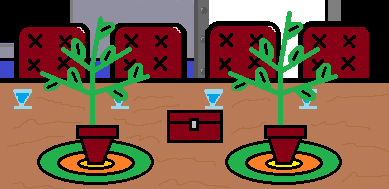
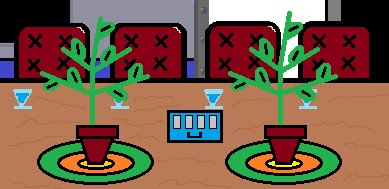
Updated lockbox asset

Changed region(s): [[0.4319, 0.582, 0.5861, 0.7407]]

diff --git a/Rooms/PinkLowerWing.py b/Rooms/PinkLowerWing.py
@@ -57,11 +57,8 @@ scaledDesk = pygame.transform.scale(Desk, (Desk.get_width(), Desk.get_height()/2
 scaledDesk2 = pygame.transform.scale(Desk2, (Desk2.get_width(), Desk2.get_height()/2))
 deskRange = pygame.Rect(100, 66, scaledDesk.get_width(), scaledDesk.get_height())
 Table = pygame.image.load("Assets/lowerWingTable.png")
-Table2 = pygame.image.load("Assets/lowerWingTable2.png")
 scaledTable = pygame.transform.scale(Table, (Table.get_width()*1.5, Table.get_height()/1.2))
-scaledTable2 = pygame.transform.scale(Table2, (Table2.get_width()*1.5, Table2.get_height()/1.2))
 tableRect = pygame.Rect(212,138,430,30)
-tableRect2 = pygame.Rect(292,110,350,45)
 tableRange = pygame.Rect(292,160,350,16)
 scaledTooDarkSee = pygame.transform.scale(Assets.tooDarkSee, (Assets.tooDarkSee.get_width()*1.5, Assets.tooDarkSee.get_height()/1.2))
 tooDarkSee = Objects.briefText(virtual_screen, scaledTooDarkSee, 170, 160, 3)
@@ -118,7 +115,7 @@ def inBounds(x, y):
         return False
     if deskRect.collidepoint((x,y)):
         return False
-    if tableRect.collidepoint((x,y)) or tableRect2.collidepoint((x,y)):
+    if tableRect.collidepoint((x,y)):
         return False
     return True
 
@@ -144,8 +141,6 @@ def Room(screen, screen_res, events):
     bookcaseRange = pygame.Rect(792,140,104,56)
 
     _, _, blueFound = Objects.getColorsFound()
-
-    spotdiffssolved = Objects.getSpotDiffsSolved()
 
     for event in events:
         if event.type == pygame.KEYDOWN:
@@ -234,10 +229,7 @@ def Room(screen, screen_res, events):
     virtual_screen.blit(scaledLockedDoor, (23, 65, scaledLockedDoor.get_width(),scaledLockedDoor.get_height()))
 
     if(player_pos.y >= 143):
-        if not spotdiffssolved:
-            virtual_screen.blit(scaledTable, (220,65))
-        else:
-            virtual_screen.blit(scaledTable2, (220,65))
+        virtual_screen.blit(scaledTable, (220,65))
 
     if(player_pos.y < 148):
         Player.animatePlayer(virtual_screen, player_pos, 160, 64)
@@ -253,10 +245,7 @@ def Room(screen, screen_res, events):
         Player.animatePlayer(virtual_screen, player_pos, 160, 64)
 
     if(player_pos.y < 143):
-        if not spotdiffssolved:
-            virtual_screen.blit(scaledTable, (220,65))
-        else:
-            virtual_screen.blit(scaledTable2, (220,65))
+        virtual_screen.blit(scaledTable, (220,65))
 
     virtual_screen.blit(dark_overlay, (0, 0))
 

diff --git a/Rooms/Lockbox_puzzle.py b/Rooms/Lockbox_puzzle.py
@@ -36,6 +36,7 @@ def inBounds(x, y):
     if exit:
         exit = False
         played = False
+        solved = False
         return 0
     return False
 
